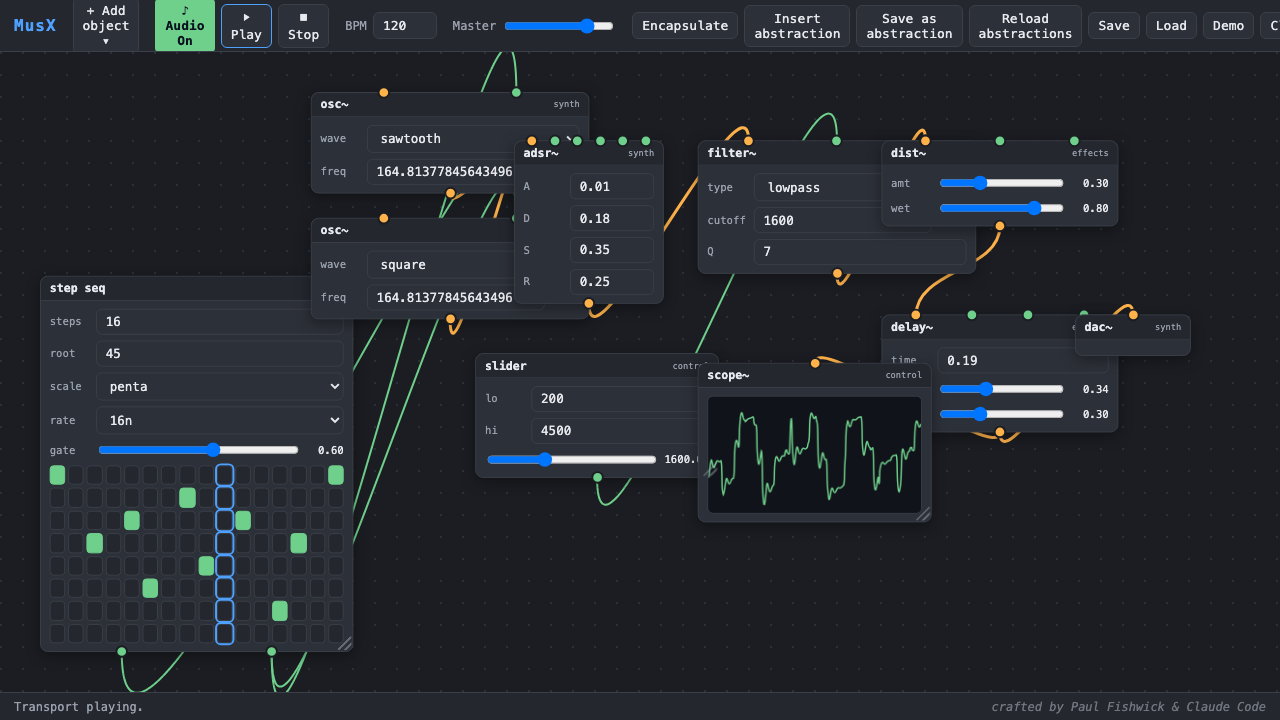
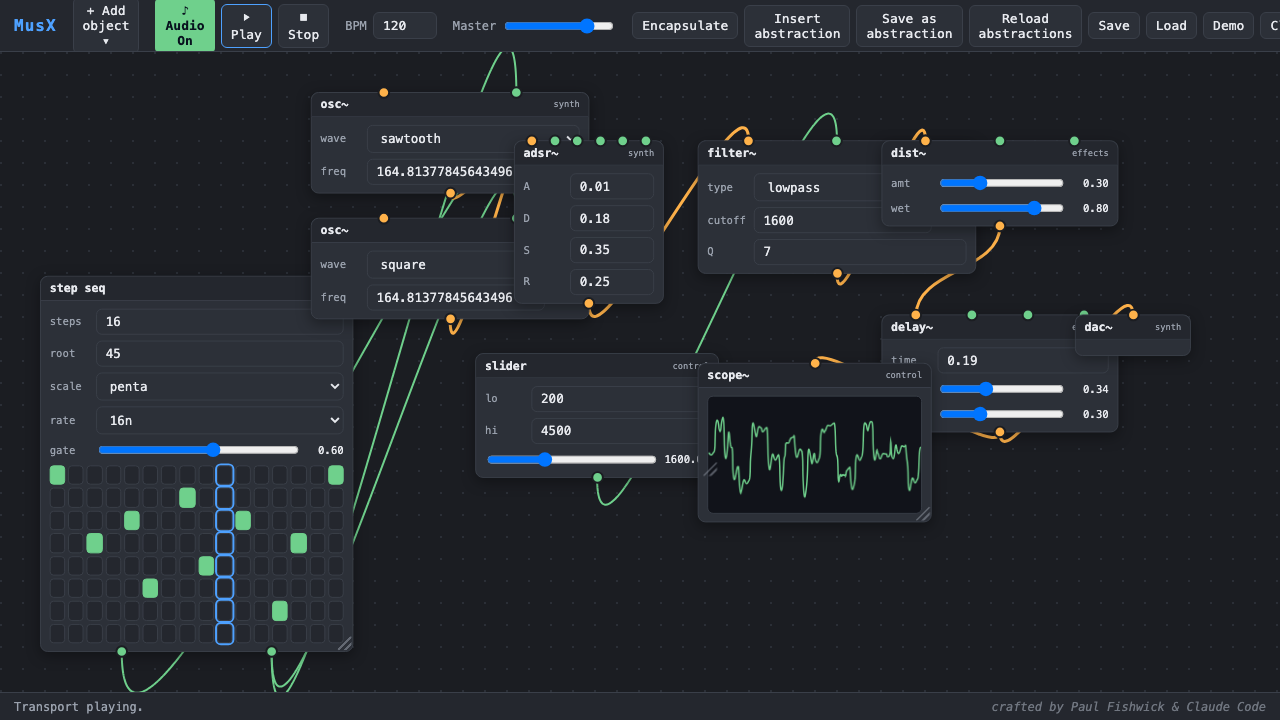
Phase 4: richsound — fat/wide synth voices (unison~, pan~, Start-Mod)
Hexeract-inspired rich pad/lead textures via unison voice stacking + cents
detuning + equal-power stereo spread (and Start-Mod for samples).

New js/nodes/fat.js:
- unison~ : one oscillator MODULE running 1-8 detuned voices, each cents-offset
  symmetrically (musical, freq-independent) and Panner-spread across the stereo
  field, summed into a stable output Gain scaled 1/sqrt(N). A single `freq`
  control fans out to all voices; voices/detune/spread/level update live (voices
  rebuilds the array). Stack a few for a genuinely wide sound.
- pan~ : plain equal-power stereo panner (pos -1..1, mod-able).

sndfile~ Start-Mod: new `startmod` param (0-200 ms) applies a random start-time
offset on each (re)trigger, so stacked sample voices of the same file blend
instead of phase-cancelling. Default 0 = unchanged behavior.

richsound voice: patches/abstractions/richsound-voice.json (freq+trig inlets ->
3x unison~ at different wave/detune/spread -> mix -> filter -> adsr -> outlet~),
plus a self-contained "richsound" demo (keyboard -> that voice as a patcher ->
dac; ~18 detuned voices per note).

probe-unison.mjs (9 checks) green: audio present, spread=1 yields a real side
(L-R) signal that collapses >=12 dB at spread=0, live voices 7->1 keeps sound,
pan~ favors the correct channel hard-L/hard-R, sndfile~ exposes the Start-Mod
inlet, and the richsound demo plays an audible fat note. Main suite + sources +
all Phase 3 probes green.

Changed region(s): [[0.5625, 0.5806, 0.7188, 0.7028]]

diff --git a/js/nodes/fat.js b/js/nodes/fat.js
@@ -1,0 +1,82 @@
+// fat.js — rich, wide synth voices (richsound). Unison stacking + cents detuning + equal-power
+// stereo spread, the architecture behind big "supersaw" pad/lead textures (Hexeract-inspired).
+//
+//   unison~ — one oscillator MODULE that internally runs up to 8 detuned voices, each panned
+//             across the stereo field and summed. One `freq` control drives all voices; the
+//             per-voice cents offsets + pan positions make it fat and wide. Stack a few of these
+//             (different waves/detune) for the full richsound voice.
+//   pan~    — a plain equal-power stereo panner (place any mono source in the field).
+const T = () => window.Tone;
+
+export const fatNodes = [
+  {
+    type: 'unison',
+    title: 'unison~',
+    category: 'synth',
+    inlets: [],                                   // freq/detune/spread/level get control inlets via mod:true
+    outlets: [{ name: 'out', kind: 'audio' }],    // stereo (Panner-spread) sum
+    params: [
+      { name: 'wave', label: 'wave', widget: 'select', options: ['sine', 'square', 'sawtooth', 'triangle'], default: 'sawtooth' },
+      { name: 'voices', label: 'voices', widget: 'number', min: 1, max: 8, step: 1, default: 7 },
+      { name: 'detune', label: 'detune¢', widget: 'slider', min: 0, max: 100, step: 1, default: 25, mod: true },
+      { name: 'spread', label: 'spread', widget: 'slider', min: 0, max: 1, step: 0.01, default: 0.8, mod: true },
+      { name: 'level', label: 'level', widget: 'slider', min: 0, max: 1.5, step: 0.01, default: 0.7, mod: true },
+      { name: 'freq', label: 'freq', widget: 'number', min: 1, max: 20000, default: 220, note: true, mod: true },
+    ],
+    create(node) {
+      const p = node.params;
+      const sum = new (T().Gain)(1);              // stable output; voices reconnect into it on rebuild
+      let voices = [];                            // [{ osc, pan, c }], c = symmetric position in [-1,1]
+
+      // 1/sqrt(N) keeps summed loudness roughly constant as voice count changes
+      const applyLevel = () => { const N = voices.length || 1; sum.gain.rampTo((p.level ?? 0.7) / Math.sqrt(N), 0.02); };
+
+      const rebuild = () => {
+        for (const v of voices) { v.osc.dispose(); v.pan.dispose(); }
+        voices = [];
+        const N = Math.max(1, Math.min(8, Math.round(p.voices ?? 7)));
+        for (let i = 0; i < N; i++) {
+          const c = N === 1 ? 0 : (i / (N - 1) - 0.5) * 2;   // -1 .. +1 across the stack
+          const osc = new (T().Oscillator)({ type: p.wave || 'sawtooth', frequency: p.freq ?? 220, detune: c * (p.detune ?? 25) }).start();
+          const pan = new (T().Panner)(c * (p.spread ?? 0.8));
+          osc.connect(pan); pan.connect(sum);
+          voices.push({ osc, pan, c });
+        }
+        applyLevel();
+      };
+      rebuild();
+
+      return {
+        audioOut: () => sum,
+        setParam: (n, v) => {
+          if (n === 'voices') { p.voices = Math.round(+v) || 1; rebuild(); return; }
+          if (n === 'wave') { p.wave = v; for (const vc of voices) vc.osc.type = v; return; }
+          v = +v; if (!Number.isFinite(v)) return;
+          if (n === 'freq') { p.freq = v; for (const vc of voices) vc.osc.frequency.value = v; }
+          else if (n === 'detune') { p.detune = v; for (const vc of voices) vc.osc.detune.value = vc.c * v; }
+          else if (n === 'spread') { p.spread = v; for (const vc of voices) vc.pan.pan.value = vc.c * v; }
+          else if (n === 'level') { p.level = v; applyLevel(); }
+        },
+        dispose: () => { for (const vc of voices) { vc.osc.dispose(); vc.pan.dispose(); } sum.dispose(); },
+      };
+    },
+  },
+
+  {
+    type: 'pan',
+    title: 'pan~',
+    category: 'synth',
+    inlets: [{ name: 'in', kind: 'audio' }],
+    outlets: [{ name: 'out', kind: 'audio' }],
+    params: [{ name: 'pos', label: 'pos', widget: 'slider', min: -1, max: 1, step: 0.01, default: 0, mod: true }],
+    create(node) {
+      const pan = new (T().Panner)(node.params.pos ?? 0);
+      return {
+        audioIn: (i) => (i === 'in' ? pan : null),
+        audioOut: () => pan,
+        setParam: (n, v) => { if (n === 'pos' && Number.isFinite(+v)) pan.pan.rampTo(Math.max(-1, Math.min(1, +v)), 0.02); },
+        dispose: () => pan.dispose(),
+      };
+    },
+  },
+];

diff --git a/js/demos.js b/js/demos.js
@@ -171,4 +171,51 @@ const bangCode = {
   },
 };
 
-export const DEMOS = { customSynth, layeredPad, funcPlot, keyboardSynth, xySynth, bangCode };
+// Richsound Voice — the fat, wide "supersaw" pad architecture (Hexeract-inspired): three
+// `unison~` modules (each up to 8 detuned, stereo-spread oscillators) summed -> filter -> ADSR.
+// Packaged as a `patcher` (the same graph shipped as patches/abstractions/richsound-voice.json),
+// so a single keyboard note fans out to ~18 detuned voices spread across the stereo field.
+const richsoundVoicePatch = {
+  version: 1,
+  nodes: [
+    { id: 'freq', type: 'inlet', x: 40, y: 40, params: {} },
+    { id: 'trig', type: 'inlet', x: 620, y: 40, params: {} },
+    { id: 'o1', type: 'unison', x: 40, y: 150, params: { wave: 'sawtooth', voices: 7, detune: 22, spread: 0.85, level: 0.6, freq: 220 } },
+    { id: 'o2', type: 'unison', x: 250, y: 150, params: { wave: 'sawtooth', voices: 6, detune: 40, spread: 0.6, level: 0.5, freq: 220 } },
+    { id: 'o3', type: 'unison', x: 460, y: 150, params: { wave: 'triangle', voices: 5, detune: 12, spread: 0.35, level: 0.45, freq: 220 } },
+    { id: 'mix', type: 'gain', x: 250, y: 320, params: { level: 0.8 } },
+    { id: 'flt', type: 'filter', x: 250, y: 430, params: { type: 'lowpass', cutoff: 2600, Q: 0.7 } },
+    { id: 'env', type: 'adsr', x: 250, y: 540, params: { attack: 0.4, decay: 0.6, sustain: 0.7, release: 1.4 } },
+    { id: 'out', type: 'outlet~', x: 250, y: 660, params: {} },
+  ],
+  connections: [
+    { from: { nodeId: 'freq', port: 'out' }, to: { nodeId: 'o1', port: 'freq' }, kind: 'control' },
+    { from: { nodeId: 'freq', port: 'out' }, to: { nodeId: 'o2', port: 'freq' }, kind: 'control' },
+    { from: { nodeId: 'freq', port: 'out' }, to: { nodeId: 'o3', port: 'freq' }, kind: 'control' },
+    { from: { nodeId: 'o1', port: 'out' }, to: { nodeId: 'mix', port: 'in' }, kind: 'audio' },
+    { from: { nodeId: 'o2', port: 'out' }, to: { nodeId: 'mix', port: 'in' }, kind: 'audio' },
+    { from: { nodeId: 'o3', port: 'out' }, to: { nodeId: 'mix', port: 'in' }, kind: 'audio' },
+    { from: { nodeId: 'mix', port: 'out' }, to: { nodeId: 'flt', port: 'in' }, kind: 'audio' },
+    { from: { nodeId: 'flt', port: 'out' }, to: { nodeId: 'env', port: 'in' }, kind: 'audio' },
+    { from: { nodeId: 'trig', port: 'out' }, to: { nodeId: 'env', port: 'trig' }, kind: 'control' },
+    { from: { nodeId: 'env', port: 'out' }, to: { nodeId: 'out', port: 'in' }, kind: 'audio' },
+  ],
+};
+const richsound = {
+  name: 'Richsound Voice (fat unison pad)',
+  patch: {
+    version: 1,
+    nodes: [
+      { id: 'kb', type: 'keyboard', x: 40, y: 360, params: { octaves: 2, base: 36, dur: 1.6 } },
+      { id: 'voice', type: 'patcher', x: 360, y: 60, params: { patch: richsoundVoicePatch } },
+      { id: 'dc', type: 'dac', x: 720, y: 60, params: {} },
+    ],
+    connections: [
+      { from: { nodeId: 'kb', port: 'freq' }, to: { nodeId: 'voice', port: 'in1' }, kind: 'control' },
+      { from: { nodeId: 'kb', port: 'trig' }, to: { nodeId: 'voice', port: 'in2' }, kind: 'control' },
+      { from: { nodeId: 'voice', port: 'out1' }, to: { nodeId: 'dc', port: 'in' }, kind: 'audio' },
+    ],
+  },
+};
+
+export const DEMOS = { customSynth, layeredPad, funcPlot, keyboardSynth, xySynth, bangCode, richsound };

diff --git a/js/nodes/sources.js b/js/nodes/sources.js
@@ -21,6 +21,10 @@ export const sourceNodes = [
       // modulate varispeed live (auto control inlet) — e.g. a funcgen LFO for tape wobble.
       { name: 'loop', label: 'loop', widget: 'select', options: ['off', 'on'], default: 'off' },
       { name: 'rate', label: 'rate', widget: 'slider', min: 0.25, max: 4, step: 0.01, default: 1, mod: true },
+      // Start-Mod: on each (re)start, jump in by a random [0, startmod) ms. Stacking several
+      // sndfile~ voices of the same file with startmod>0 stops them phase-cancelling into a
+      // hollow/metallic tone — they blend into a lush chorused ensemble (Hexeract "Start Mod").
+      { name: 'startmod', label: 'start∿', widget: 'slider', min: 0, max: 200, step: 1, default: 0, mod: true },
     ],
     // shared file-picker / bundled-sound / drag-and-drop UI
     render: soundLoaderRender,
@@ -36,7 +40,13 @@ export const sourceNodes = [
       const applyBuf = (toneBuf) => { player.buffer = toneBuf; hasBuf = true; };
       if (node._audio?.buffer) applyBuf(node._audio.buffer); // buffer loaded before audio start
 
-      const restart = () => { if (!hasBuf) return; try { player.stop(); } catch (e) {} player.start(); };
+      const restart = () => {
+        if (!hasBuf) return;
+        try { player.stop(); } catch (e) {}
+        const jitter = (node.params.startmod ?? 0) / 1000;             // ms -> s
+        const offset = jitter > 0 ? Math.random() * jitter : 0;        // random start-time per trigger
+        player.start(undefined, offset);
+      };
 
       // auto-load a bundled sound referenced by the patch (params.src, e.g. "sounds/bell.wav")
       autoloadSrc(node, (buf) => { applyBuf(buf); if (player.loop) player.start(); });
@@ -48,6 +58,7 @@ export const sourceNodes = [
         setParam: (n, v) => { // also the target of the `rate` mod inlet
           if (n === 'rate' && Number.isFinite(+v)) player.playbackRate = Math.max(0.01, +v);
           else if (n === 'loop') player.loop = (v === 'on');
+          else if (n === 'startmod' && Number.isFinite(+v)) node.params.startmod = Math.max(0, +v);
         },
         // swap the buffer live: if it's playing (or set to loop), restart so the NEW file
         // is heard immediately instead of only after the next manual start

diff --git a/js/nodes/registry.js b/js/nodes/registry.js
@@ -1,5 +1,6 @@
 // registry.js — collects all node definitions into one map and exposes palette grouping.
 import { synthNodes } from './synth.js';
+import { fatNodes } from './fat.js';
 import { sourceNodes } from './sources.js';
 import { granularNodes } from './granular.js';
 import { wavesetNodes } from './waveset.js';
@@ -15,6 +16,7 @@ import { subpatchNodes } from './subpatch.js';
 
 const ALL = [
   ...synthNodes,
+  ...fatNodes,
   ...sourceNodes,
   ...granularNodes,
   ...wavesetNodes,

diff --git a/projectplan.md b/projectplan.md
@@ -771,6 +771,66 @@ There is no multi-selection today (`Editor.selected` is one view), so 3.3 = **mu
     nodes selected → internal cable preserved inside, only crossings become ports. No page errors.
   - Run main suite (`test.mjs`) — shared-infra touch (selection model) warrants full regression.
 
+## Phase 4 Plan — Fat/rich synth voices (richsound: Hexeract-inspired unison) (DONE)
+
+**Goal:** let MusX make the thick, wide "supersaw" pad/lead textures Hexeract is known for.
+Per the manual, the fatness comes from a specific architecture, not just three oscillators:
+**unison voice stacking + detuning**, **stereo spreading**, and (for sampled sources) a
+**Start-Mod** random start offset to beat phase-cancellation.
+
+### New nodes vs. subpatching — recommendation (answering "subpatching or not?")
+**Build the core as ONE new node (`unison~`), NOT hand-built from primitives.** Reasons:
+- Hexeract's own architecture is a *single oscillator module that has unison built in*, and you
+  stack three of them. `unison~` = exactly one such module. That maps 1:1 to MusX's convention
+  (one registry entry encapsulates a small Tone subgraph — like `grain`, `reverb`, etc.).
+  (Product-name note: we call our fat-voice abstraction/demo **`richsound`**, not "hexeract";
+  Hexeract is only cited as the inspiration for the technique.)
+- Hand-building 8 detuned, panned voices as a subpatch is tedious and MusX has **no `pan~` and no
+  detune-math primitives** yet, and no way to parameterize "N voices" in a patch. A node does the
+  N-voice fan-out in code, cleanly and live-adjustable.
+- Subpatching still plays a complementary role at the TOP level: the full "3-module richsound voice"
+  (keyboard → 3× `unison~` → mix → filter → adsr → dac) is shipped as a **reusable abstraction**
+  `patches/abstractions/richsound-voice.json` (showcasing Phase 3.4) plus a built-in demo.
+
+Audio path stays stereo end-to-end (dac/gain are `Tone.Gain`, which pass stereo through), so a
+`unison~` whose voices are `Tone.Panner`-spread yields a genuinely wide signal into filter→dac.
+
+### Steps
+- [x] **4.1 `unison~` — the core supersaw/unison oscillator module.** One registry entry
+      (new `js/nodes/fat.js`). Internally: build `voices` (1–8) `Tone.Oscillator`s of `wave`, each
+      with a symmetric `detune` offset in **cents** (musical, freq-independent; center voice = 0),
+      each into its own `Tone.Panner` symmetrically spread across `-spread..+spread`, summed into
+      one output `Tone.Gain` scaled by `1/sqrt(voices)` (headroom). Ports: control inlet `freq`
+      (Hz, note-driven — sets every voice's base frequency, offsets preserved) + audio outlet `out`.
+      Params: `wave` (select), `voices` (1–8), `detune` (cents, 0–100), `spread` (0–1), `level`.
+      `voices` change rebuilds the internal voice array live. Detune/spread/level/freq update live.
+      NOTE: keep the freq→per-voice-frequency mapping in the node (base Hz + cents offset via each
+      osc's `detune`), so one `freq` control fans out to all voices — no external math needed.
+      Probe `probe-unison.mjs`: single `freq` in → audio present AND stereo width (L channel ≠ R
+      channel, i.e. spread actually pans); `voices=1,spread=0` collapses toward mono; changing
+      `voices` live keeps audio flowing; no page errors.
+- [x] **4.2 `pan~` — equal-power stereo panner** (`Tone.Panner`). Audio `in`→`out`, `pos` param
+      (−1..1, `mod` so a cable/LFO can sweep it). Small, generally useful, and lets users place
+      any mono source (or build/tweak spreads) in the stereo field. Folded into `fat.js`.
+      Probe: hard-left `pos` → left channel ≫ right; center → balanced.
+- [x] **4.3 Start-Mod for sampled sources** — add a `startmod` param (0–200 ms) to `sndfile~`:
+      on each `trig`/restart, offset playback start by a random `[0, startmod)` so stacked sample
+      voices blend instead of phase-cancelling (`player.start(time, randomOffset)`). Purely additive
+      to the existing node; default 0 = current behavior. Probe: with `startmod>0`, two triggers
+      start from different offsets (observable via differing early output), audio still plays.
+- [x] **4.4 richsound-voice abstraction + demo.** Ship `patches/abstractions/richsound-voice.json`
+      (`inlet` freq + `inlet` trig → 3× `unison~` at different wave/detune/spread → summing `gain`
+      → `filter` → `adsr` → `outlet~`) and a built-in `DEMOS` entry ("richsound") wiring `keyboard` → that voice →
+      `dac`. Verifies the new nodes end-to-end AND the 3.4 abstraction path. Probe or fold into
+      `probe-unison.mjs`: load the demo, play a note, assert audible wide output.
+- [x] **4.5 Regression** — main suite + Phase 3 probes green (new nodes are additive, but 4.3 edits
+      shared `sndfile~`, so run `probe-sources.mjs` too).
+
+### Open choices to confirm before coding
+1. **Detune unit:** cents (musical, recommended) vs. the manual's literal ±Hz. I plan cents.
+2. **Scope now:** do 4.1+4.2+4.4 first (the synth fatness — the video's main sound), and treat
+   4.3 sample Start-Mod as a fast-follow? Or all four together.
+
 ## Longer-term (noted, not this phase): SoundThread node gap analysis
 SoundThread exposes 100+ CDP time- and frequency-domain processes. After 2.3,
 produce a gap table: SoundThread/CDP process → already in MusX? → real-time